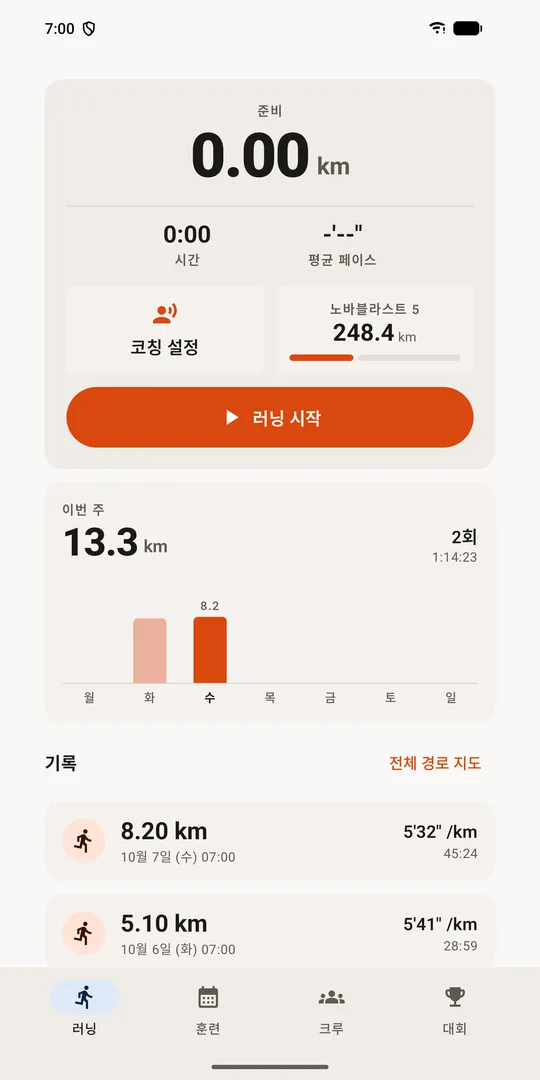
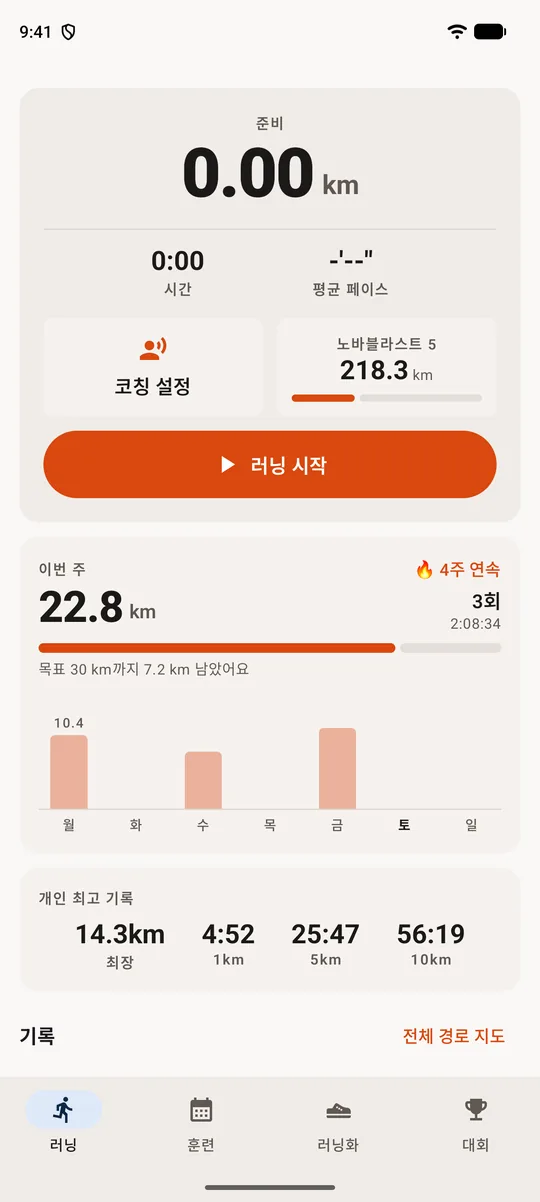
Refresh landing page screenshots and copy for current features
- Replace hero and feature screenshots with the current app (run tab,
  run detail map, auto training plan, race calendar)
- Swap the removed crew section for the all-routes map
- Copy now covers auto training plans, in-app race calendar, weekly goal
  and personal bests, and post-run shoe confirmation

diff --git a/docs/index.html b/docs/index.html
@@ -163,8 +163,8 @@
       <div class="phone"><img src="img/03_plan.webp" alt="훈련 계획 화면" loading="lazy"></div>
       <div>
         <span class="tag">훈련 계획</span>
-        <h3>목표만 정하면 훈련표가 나와요</h3>
-        <p>5K·10K·하프·풀코스 중 목표와 대회 날짜, 지금 주간 거리를 입력하면 주차별 훈련표를 자동으로 만들어요.</p>
+        <h3>대회를 고르면 훈련표가 나와요</h3>
+        <p>대회를 추가하면 가장 먼저 열리는 대회에 맞춰 주차별 훈련표를 자동으로 만들어요. 목표와 주간 거리를 직접 정해 만들 수도 있어요.</p>
         <ul class="check"><li>이지런·인터벌·템포런·장거리 균형 배치</li><li>회복 주와 대회 전 테이퍼까지</li><li>러닝을 저장하면 훈련 자동 체크</li></ul>
       </div>
     </div>
@@ -172,26 +172,26 @@
     <div class="row reveal">
       <div class="phone"><img src="img/04_race.webp" alt="대회 관리 화면" loading="lazy"></div>
       <div>
-        <span class="tag">대회 관리</span>
-        <h3>나갈 대회를 D-day로 챙겨요</h3>
-        <p>대회를 등록하면 남은 날짜와 신청 여부, 목표 기록을 한눈에 볼 수 있어요. 대회에 맞춘 훈련 계획도 바로 만들 수 있어요.</p>
-        <ul class="check"><li>신청 여부·목표 기록 관리</li><li>대회 날짜에 맞춘 훈련 계획</li><li>전국 대회 일정 사이트 바로가기</li></ul>
+        <span class="tag">전국 대회 일정</span>
+        <h3>나갈 대회를 찾고 D-day로 챙겨요</h3>
+        <p>전국 마라톤 일정을 앱에서 바로 찾아 추가하세요. 남은 날짜와 신청 여부, 목표 기록을 한눈에 볼 수 있어요.</p>
+        <ul class="check"><li>대회 이름·장소 검색, 종목별 필터</li><li>신청 여부·목표 기록 관리</li><li>대회를 지우면 훈련표도 함께 정리</li></ul>
       </div>
     </div>
 
     <div class="row flip reveal">
-      <div class="phone"><img src="img/05_crew.webp" alt="러닝 크루 화면" loading="lazy"></div>
+      <div class="phone"><img src="img/05_routes.webp" alt="전체 경로 지도 화면" loading="lazy"></div>
       <div>
-        <span class="tag">러닝 크루</span>
-        <h3>같이 달릴 사람을 모아요</h3>
-        <p>크루를 만들고 번개런·정기런 모임을 열어 보세요. 공유 버튼 하나로 카카오톡에 초대 메시지를 보낼 수 있어요.</p>
-        <ul class="check"><li>번개·정기런 모임 만들기</li><li>참석 여부 관리</li><li>카카오톡 등으로 초대 공유</li></ul>
+        <span class="tag">전체 경로</span>
+        <h3>그동안 달린 길을 한 장에</h3>
+        <p>지금까지 달린 모든 경로를 지도 하나에 모아 보여줘요. 자주 달리는 코스와 새로 달려본 길이 한눈에 보여요.</p>
+        <ul class="check"><li>모든 러닝 경로를 한 지도에</li><li>기록마다 지도·구간 페이스 확인</li><li>경로 GPX 저장·공유</li></ul>
       </div>
     </div>
 
     <div class="mini reveal">
-      <div><b>러닝화 마일리지</b><span>신발별 누적 거리로 교체 시기를 알려줘요.</span></div>
-      <div><b>주간 요약</b><span>이번 주 달린 거리와 횟수를 한눈에 봐요.</span></div>
+      <div><b>러닝화 마일리지</b><span>신발별 누적 거리로 교체 시기를 알려주고, 러닝 후 신은 신발을 확인해요.</span></div>
+      <div><b>목표와 기록</b><span>주간 목표 거리, 연속 주, 1km·5km·10km 개인 최고 기록을 챙겨요.</span></div>
       <div><b>Health Connect</b><span>원하면 러닝 기록을 Health Connect에 저장해요.</span></div>
     </div>
   </div>
